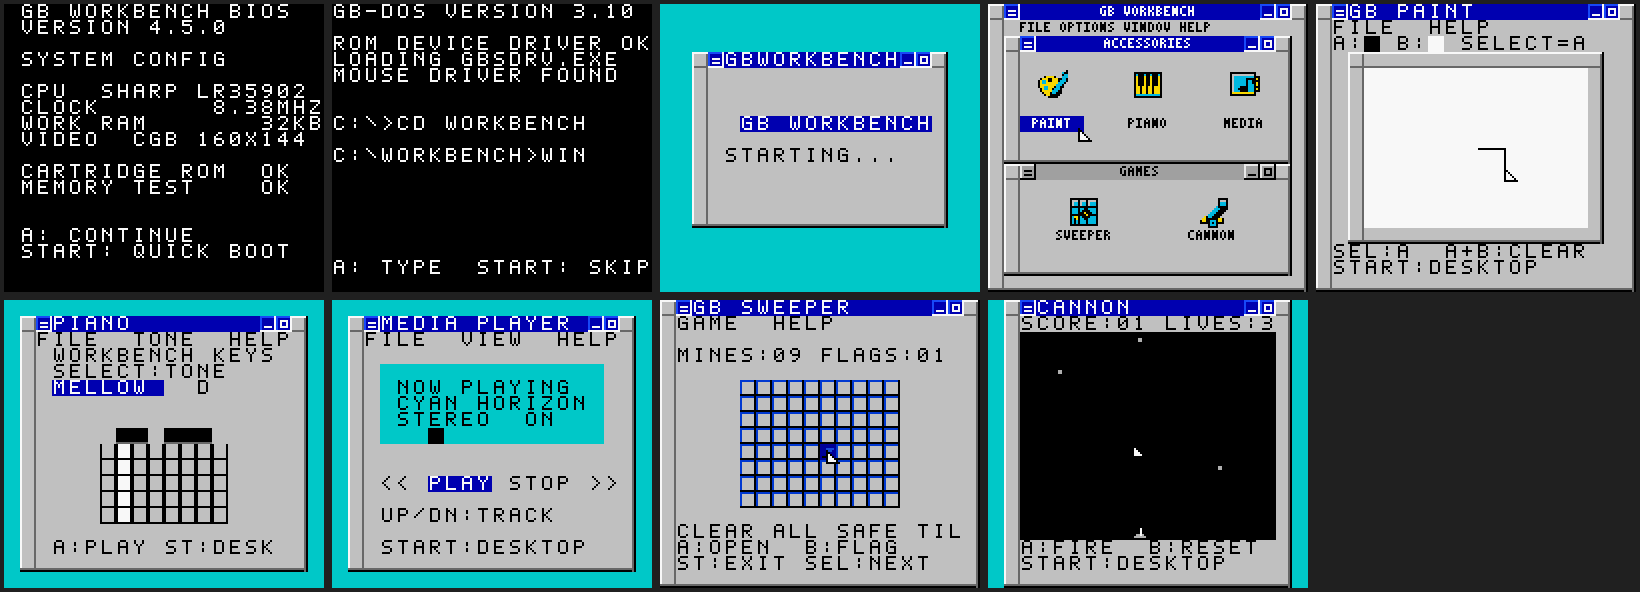
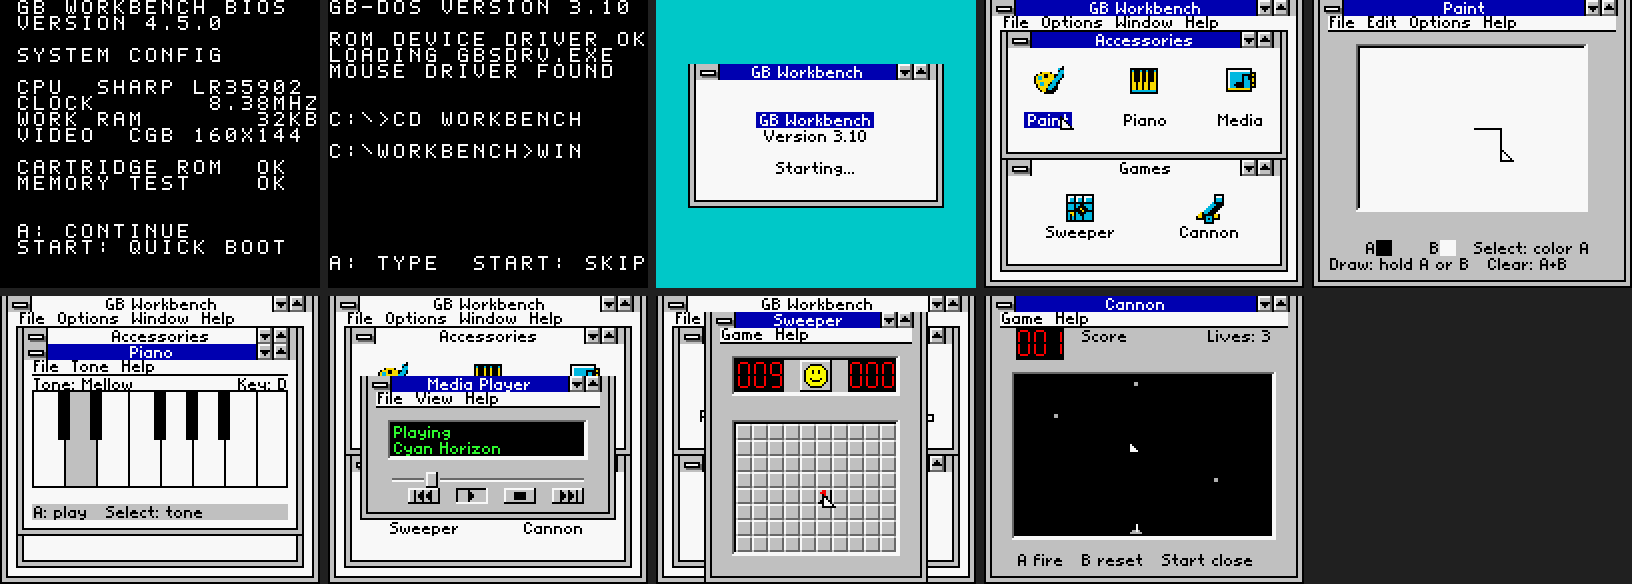
docs: add GBS Windows stock-take and refresh QA evidence
Record the 15-criterion comparison with GBS Windows that drove the
foundation pass, update the plan, QA report, design notes and README
montage, and start the repo run log.

diff --git a/docs/QA_REPORT.md b/docs/QA_REPORT.md
@@ -1,66 +1,64 @@
 # GB Win 3.1 verification report
 
-Date: 2026-08-04
+Date: 2026-09-25
 
-## Rebuild result
+## Build result
 
-The original snapshot at commit `5676292` was not reproducible from its source.
-The rebuild replaces the mismatched state, tile, palette, Paint, Sweeper, and
-build paths with a clean-room CGB-only implementation.
+The cartridge is `build/gb-win31.gbc`: 32 KiB, title `GB WORKBENCH`, CGB flag
+`0xC0`, cartridge type `0x1B` (MBC5 + RAM + battery), 8 KiB SRAM, and valid
+header/global checksums. Its SHA-256 is
[1 lines of base64/hex data omitted]
 
-The generated cartridge is `build/gb-win31.gbc`: 32 KiB, title
-`GB WORKBENCH`, CGB flag `0xC0`, and valid header/global checksums.
-Its SHA-256 is
[1 lines of base64/hex data omitted]
-the active 16 KiB ROM bank uses 14,700 bytes (90%), leaving 1,684 bytes.
-WRAM uses 2,825 of 4,096 bytes, leaving 1,271 bytes.
+| Region | Used | Free |
+| --- | --- | --- |
+| ROM bank 0 (fixed) | 7,588 B (46%) | 8,796 B |
+| ROM bank 1 (switchable) | 14,026 B (86%) | 2,358 B |
+| WRAM 0xC000-0xCFFF | 3,384 B (83%) | 712 B |
+
+Before this pass the whole program lived in bank 0 at 90% usage. Scenes and
+asset builders are now auto-banked; engine code (main loop, input, UI, text,
+audio, game models) stays in bank 0. Further code spills into new banks
+automatically.
+
+The previous build (`1d6fb920...`, recorded 2026-08-04) was reproduced
+byte-for-byte with GBDK 4.5.0 before any change.
 
 ## Automated checks
 
 - GBDK 4.5.0 compiles all ROM sources without diagnostics.
-- The host Sweeper suite covers initialization, all first-click positions,
-  deterministic mine placement, adjacency, flags, iterative flood fill,
-  bounds guards, loss, and win.
-- The same model suite passes AddressSanitizer and UndefinedBehaviorSanitizer;
-  leak detection is disabled because it is unavailable in the sandbox.
-- PyBoy 2.7.0 drives the complete boot-to-desktop journey and every app. The
-  interaction smoke covers empty-space clicks, pixel drawing, flag/reveal/reset,
-  Piano note dispatch, Media persistence, and Cannon score/reset in one
-  deterministic journey.
-- Nine deterministic 160 x 144 frames compare pixel-for-pixel with
-  `tests/golden/`.
-- Desktop detection is anchored to the complete 2 x 2 Paint icon rather than
-  the old full-tile title text, so the packed desktop font remains testable.
-- Cursor regression coverage verifies 8 x 8 sprite mode, transparent right and
-  bottom padding, and the `(152, 136)` bottom-right on-screen position.
-- `tools/verify_rom.py` checks cartridge size alignment, title, CGB-only flag,
-  and both checksums.
+- `make test`: the host Sweeper suite (initialisation, every first-click
+  position, deterministic mines, adjacency, flags, iterative flood fill,
+  bounds guards, loss, win) passes with `-Wall -Wextra -Werror`, and the
+  generated font table matches `assets/system_font.txt`.
+- `make verify`: size, title, CGB-only flag, MBC5 type, ROM/RAM size codes and
+  both checksums.
+- `make smoke-test` (PyBoy 2.7.0), synchronised on the exported `gbw_scene`
+  byte rather than on rendered text:
+  - boot quick-start to desktop, 8x8 pointer with transparent padding;
+  - empty desktop click changes nothing;
+  - Paint writes the expected bank-1 pixel bytes;
+  - Sweeper opens over the Program Manager, flags (LED 010 -> 009), reveals,
+    resets from the smiley, and closes from its system box;
+  - Piano selects D (pressed key art) and calls `audio_note`;
+  - Media plays, changes track, keeps playing after leaving, and stops;
+  - Cannon scores, resets score and lives, and exits;
+  - pointer reaches the (152, 136) bottom-right bound.
+- `make visual-test`: nine deterministic 160 x 144 frames compare
+  pixel-for-pixel with `tests/golden/`. Three consecutive captures were
+  identical.
 
 ## Manual review gates passed
 
-- BIOS, fake DOS, splash, Program Manager, and all five applications are
-  legible at native resolution.
-- The Program Manager matches the selected dual-group design: captions occupy
-  independent 32-pixel cells, active and inactive groups are distinct, the
-  triangular pointer sits below the selected caption, and the compact `W`
-  remains readable in `WINDOW` and `SWEEPER`.
-- Source and implementation were compared together at the same 160 x 144
-  viewport and at 4x nearest-neighbor zoom; `design-qa.md` records a pass.
-- Every application can be launched and closed without a blocking input loop.
-- Paint changes individual pixels and uploads only affected mutable tiles.
-- Sweeper never uses recursive reveal and its first revealed cell is safe.
-- Media music continues after returning to the desktop.
-- Whole-scene redraws disable the LCD instead of misusing the CGB background
-  priority bit, preventing exposed partial redraws.
+- Every frame was reviewed at 1x and 3x nearest-neighbour zoom against the
+  CC0 Windows 3.1 Program Manager reference and GBS Windows review photos.
+- Mixed-case text is legible at native resolution; no status line is clipped.
+- Windowed apps (Sweeper, Piano, Media) show the Program Manager behind them
+  with inactive title bars; maximised apps (Paint, Cannon) fill the screen.
+- Labels are drawn from a per-scene tile pool that is sized at scene entry;
+  repeated Cannon rounds reuse pre-allocated labels.
 
 ## Remaining release gates
 
-- Add a true overlapping/minimizing window manager and functional title-bar
-  controls.
-- Add app-specific pixel-art polish outside the completed Program Manager pass.
-- Add Sweeper difficulty selection and Paint tools/persistence.
-- Add printer support only after disconnected/cancel behavior is designed.
-- Run the documented SameBoy, mGBA, real GBC/GBA, and flashcart smoke matrix.
-
-These remaining gates are why the current build is called a functional first
-vertical slice, not finished commercial-reference parity.
+See the backlog in `docs/STOCKTAKE.md`: Solitaire, arrow pointer, Sweeper board
+sizes, Paint tools and saves, minimise/restore, Cannon art, printer, and the
+real-hardware matrix.

diff --git a/README.md b/README.md
@@ -1,21 +1,21 @@
 # GB Win 3.1
 
 A clean-room Game Boy Color desktop simulation inspired by classic Windows 3.1
-interaction and visual design. The ROM now provides a BIOS/DOS boot illusion,
-a pointer-driven Program Manager, Paint, Piano, Media Player, Sweeper, Cannon,
+interaction and visual design. The ROM provides a BIOS/DOS boot illusion, a
+pointer-driven Program Manager, Paint, Piano, Media Player, Sweeper, Cannon,
 sound, and deterministic visual tests.
 
-The desktop now follows a tiled Windows 3.1 Program Manager layout with a
-packed native font, independently spaced captions, active/inactive groups, and
-five original 16 x 16 icons.
+The interface uses a mixed-case proportional system font, white client areas,
+Windows 3.1 title-bar buttons, and application windows that open over an
+inactive Program Manager.
 
 ![Current native-resolution journey](docs/screens/current-montage.png)
 
 This is native GBC software, not a Windows emulator or a copy of the commercial
-GBS Windows ROM. The audit, target definition, phased roadmap, and remaining
-parity work are in [docs/REBUILD_PLAN.md](docs/REBUILD_PLAN.md); current test
-evidence is in [docs/QA_REPORT.md](docs/QA_REPORT.md), with the selected desktop
-comparison in [design-qa.md](design-qa.md).
+GBS Windows ROM. The comparison with GBS Windows is in
+[docs/STOCKTAKE.md](docs/STOCKTAKE.md); the phased roadmap is in
+[docs/REBUILD_PLAN.md](docs/REBUILD_PLAN.md); current test evidence is in
+[docs/QA_REPORT.md](docs/QA_REPORT.md).
 
 ## Build
 
@@ -26,15 +26,23 @@ then run:
 make GBDK_HOME=/path/to/gbdk
 ```
 
-The ROM is written to `build/gb-win31.gbc`.
+The ROM is written to `build/gb-win31.gbc`: a CGB-only MBC5 cartridge with
+8 KiB battery SRAM. Sources that declare `#pragma bank 255` are placed in
+switchable ROM banks automatically.
 
 ```sh
-make test
-make verify
+make test      # host unit tests and font-table freshness check
+make verify    # cartridge header, type and checksums
+make budget    # ROM/WRAM bank usage
 ```
 
-For exact-frame emulator regression tests, install `requirements-test.txt` and
-run `make smoke-test` and `make visual-test`.
+For exact-frame emulator regression tests, install `requirements-test.txt` in a
+virtual environment and run `make smoke-test` and `make visual-test` with
+`PYBOY_PYTHON` pointing at it. After an intentional visual change, review the
+frames and run `make golden montage`.
+
+The system font is edited as pixel art in `assets/system_font.txt`; run
+`make font` to regenerate `src/text_font.c`.
 
 ## Controls
 
@@ -42,10 +50,11 @@ run `make smoke-test` and `make visual-test`.
 - A: click, play, reveal, fire, or draw with Paint's primary shade.
 - B: flag in Sweeper, stop in Media, or draw with Paint's secondary shade.
 - Select: cycle desktop focus, Piano tone, Media controls, or Paint shade.
-- Start: skip boot or return to the desktop from any app.
+- Start: skip boot or close the current application.
 
-In Sweeper, click `GAME` with A for a new board.
+In Sweeper, click the smiley or `Game` for a new board, or the system box to
+close the window.
 
 The checked-in golden frames are exact 160 x 144 PyBoy output. Real-hardware
-validation, overlapping/minimizable windows, SRAM persistence, and optional
-printer support remain release-polish milestones.
+validation, minimisable windows, SRAM persistence, and optional printer support
+remain release-polish milestones.

diff --git a/docs/STOCKTAKE.md b/docs/STOCKTAKE.md
@@ -1,0 +1,70 @@
+# Stock-take: GB Workbench vs GBS Windows
+
+Date: 2026-09-25
+
+## Objective
+
+Measure how far the clean-room rebuild (`agent/rebuild-gbc-workbench`) is from
+the polished Windows 3.1 feel of RubenRetro's GBS Windows, then close the
+foundation-level gaps before starting Solitaire.
+
+## Method
+
+- Built the rebuild reproducibly with GBDK 4.5.0; its ROM hash matched
+  `docs/QA_REPORT.md` exactly and all smoke and golden-frame tests passed.
+- Compared the nine native 160 x 144 frames with published photos of the GBS
+  Windows cartridge (Retro Dodo review) and the CC0 Windows 3.1 Program
+  Manager reference in `docs/design/`.
+- GBS Windows is a closed commercial GB Studio product. It is a behavioural
+  reference only; no code, art or music from it is used here.
+
+## Reference: what GBS Windows ships
+
+Boot beeps and a DOS driver sequence; a Program Manager with Accessories and
+Games groups; Paint (tool/colour column, Game Boy Printer output); Piano;
+Media Player with four tracks that keep playing in the background; Sweeper
+with three board sizes; Cannon Defense. Applications open as windows over the
+Program Manager. There is no Solitaire.
+
+## Scorecard (15 visible 3.1-feel criteria)
+
+| # | Criterion | GBS Windows | Rebuild before | This foundation PR |
+|---|---|---|---|---|
+| 1 | Mixed-case proportional system font | Yes | No (8x8 capitals) | Yes |
+| 2 | White client areas and menu bar | Yes | No (grey) | Yes |
+| 3 | Menu bar separated from the client | Yes | No | Yes |
+| 4 | Centred titles with active/inactive styles | Yes | Partial | Yes |
+| 5 | Win 3.1 title buttons (system box, down/up arrows) | Yes | No | Yes |
+| 6 | Apps open as windows over the Program Manager | Yes | No | Yes (Sweeper, Piano, Media) |
+| 7 | Minesweeper chrome: LED counters, smiley, raised cells | Yes | No | Yes |
+| 8 | Piano with white and black keys | Yes | Crude grid | Yes |
+| 9 | Media Player display and transport buttons | Yes | Text only | Yes |
+| 10 | Paint colour/tool column | Yes | Partial | Partial (swatches) |
+| 11 | Arrow pointer with tail | Yes | Triangle | Triangle |
+| 12 | Minimisable/movable windows | Partial | No | No |
+| 13 | Sweeper board sizes | 3 | 1 | 1 |
+| 14 | Game Boy Printer / saves | Printer | No | Battery SRAM available, unused |
+| 15 | Cannon scenery art | Yes | Minimal | Minimal |
+
+Distance: the rebuild met 0 of 15 criteria fully (2 partial). After this PR
+it meets 9 fully and 1 partially. Functionally it already matched the GBS app
+line-up; the gap was almost entirely presentation.
+
+## Where the rebuild is already ahead
+
+- Reproducible build with header, checksum and cartridge-type verification.
+- Host unit tests, deterministic emulator smoke journeys and pixel-exact
+  golden frames.
+- MBC5 with automatic banking: ROM bank 0 dropped from 90% to 46% full, and
+  the cartridge now has room for Solitaire, saves and more apps.
+
+## Remaining backlog (after this PR)
+
+1. Solitaire (Klondike) - the planned improvement over GBS Windows.
+2. Arrow pointer with a tail (two stacked 8x8 sprites).
+3. Sweeper Beginner/Intermediate/Expert sizes via the Game menu.
+4. Paint tool column (pencil, line, fill) and SRAM-backed save.
+5. Real minimise/restore for application windows.
+6. Cannon scenery pass (city skyline, colour).
+7. Game Boy Printer output from Paint.
+8. Real-hardware and second-emulator smoke matrix.

diff --git a/docs/REBUILD_PLAN.md b/docs/REBUILD_PLAN.md
@@ -46,23 +46,30 @@ Captured evidence is kept under `docs/baseline/`.
    renders dirty regions, and advances audio.
 2. A small state router owns boot, DOS, Program Manager, and each application.
    State entry is explicit; there are no orphan `INIT` enum values.
-3. Bank 0 background tiles contain the compact font, window chrome, icons, and
-   application UI. Bank 1 is reserved for mutable Paint canvas tiles.
+3. VRAM bank 0 holds the fixed BIOS font, window chrome, icons, the pointer,
+   and persistent Program Manager text. VRAM bank 1 holds per-scene
+   application art (tiles 0-143, including the Paint canvas) and a per-scene
+   pool of proportional-font label tiles (144-255).
 4. Every palette and tile range is declared in one manifest with compile-time
-   bounds checks.
+   bounds checks. Palettes 0, 1, 2 and 4 are system palettes; scenes may
+   reload 3, 5, 6 and 7.
 5. The pointer is a sprite. Windows and apps use the background map plus CGB
    attributes, with redraws batched at state changes or limited to dirty tiles.
 6. Game logic that does not need hardware registers remains host-testable.
 
-## Implementation status - 2026-08-04
+## Implementation status - 2026-09-25
 
 | Slice | Status | Evidence | Remaining work |
 | --- | --- | --- | --- |
-| 0 | Complete | Reproducible GBDK 4.5.0 build, CGB-only header/checksum verifier, host tests | Add a tagged release workflow |
-| 1 | Complete design pass | BIOS, DOS, splash, dual-group Program Manager, packed desktop font, original icons, pointer, five launchable apps, native golden frames | Functional group minimize/maximize controls |
-| 2 | Playable first pass | Safe deterministic Sweeper model and true-pixel persistent Paint canvas | Difficulty chooser, Paint save/load, extra palettes/tools |
-| 3 | Playable first pass | Piano tones, four original Media tracks with background playback, complete Cannon score/lives loop | Tempo/rhythm controls and a real minimize/overlap window manager |
-| 4 | Not started | Roadmap below | Printer, SRAM, SameBoy/mGBA and physical-hardware matrix |
+| 0 | Complete | Reproducible GBDK 4.5.0 build; MBC5 + 8 KiB SRAM with auto-banking; header, type and checksum verifier; host tests | Add a tagged release workflow |
+| 1 | Complete, 3.1 chrome pass | Mixed-case proportional font, white clients, menu rules, Win 3.1 title buttons, apps drawn over an inactive Program Manager, golden frames | Arrow pointer with tail; functional minimise/maximise |
+| 2 | Playable, restyled | Sweeper with LED counters, smiley and raised cells; true-pixel Paint with sunken canvas and swatches | Board sizes, Paint tools and SRAM save |
+| 3 | Playable, restyled | Piano keyboard art, Media LCD and transport buttons, Cannon LED score | Tempo/rhythm controls, Cannon scenery |
+| 3.5 | Next | Solitaire (Klondike), the improvement over GBS Windows | Model, host tests, card art, pointer play, win cascade |
+| 4 | Not started | Roadmap below | Printer, SRAM persistence, SameBoy/mGBA and physical-hardware matrix |
+
+The GBS Windows comparison that set these priorities is in
+`docs/STOCKTAKE.md`.
 
 The nine golden screens lock this implementation against accidental visual
 regression. They are not a claim that clean-room reference parity is finished.

diff --git a/docs/design/DESKTOP_DESIGN.md b/docs/design/DESKTOP_DESIGN.md
@@ -32,7 +32,25 @@ Accessory cell centers are 32, 80, and 128 pixels. Game cell centers are 48
 and 112 pixels. Each app caption is rendered into an independent 32-pixel cell,
 so no label can touch a neighbor or replace a frame tile.
 
-## Visual rules
+## Revision 2 - Windows 3.1 chrome pass (2026-09-25)
+
+The layout above is unchanged; the surface treatment moved closer to Windows
+3.1 after the GBS Windows stock-take (`docs/STOCKTAKE.md`):
+
+- All window text uses the original mixed-case proportional system font
+  (`assets/system_font.txt`, cap height 6, x-height 4, 1-pixel descender).
+- Client areas and menu bars are white; menus end in a black rule.
+- Window frames are 4 pixels thick inside their 8-pixel tiles, leaving white
+  padding; windows with grey clients use face-coloured frame variants.
+- Title bars centre their text. Active titles are white on navy; inactive
+  titles are black on white. Title buttons are the system-menu bar and the
+  down/up arrow buttons.
+- Captions are rendered into per-icon tile strips centred on the icon. The
+  selected caption gets a tight navy box instead of a full-cell fill.
+- Application windows (Sweeper, Piano, Media) are drawn over the Program
+  Manager, which switches to inactive titles behind them.
+
+## Visual rules (revision 1)
 
 - Use a packed 3 x 5 glyph on a 4-pixel advance for desktop text only.
 - Keep the existing application font unchanged.

diff --git a/docs/run-log.md b/docs/run-log.md
@@ -1,0 +1,4 @@
+# Run Log
+
+2026-09-25 15:00|Fast-forward merged origin/agent/rebuild-gbc-workbench (3 commits) into claude/codebase-understanding-027b73|Bring worktree up to date with user's pushed rebuild for codebase review|Clean fast-forward, no conflicts; working tree now matches rebuild branch tip (1345fee); `make test` passes
+2026-09-25 15:54|Foundation 3.1 pass: MBC5+autobank, proportional system font, white-client chrome, apps over Program Manager, Sweeper LED/smiley, scene-synced emulator tests, stock-take doc|Close GBS Windows 3.1-feel gaps without regressions|Build clean; verify/test/smoke/visual all pass; bank0 90%->46%; 9 of 15 stock-take criteria met (was 0)

diff --git a/design-qa.md b/design-qa.md
@@ -1,5 +1,15 @@
 # Desktop option 2 design QA
 
+## Revision 2 (2026-09-25)
+
+The Windows 3.1 chrome pass (see `docs/design/DESKTOP_DESIGN.md`, revision 2)
+replaces the 3 x 5 capitals with the mixed-case system font, turns client
+areas white, and adds menu rules and 3.1 title buttons. The layout, icon art
+and selection behaviour below are unchanged. The current rendered desktop is
+`tests/golden/desktop.png`; it was reviewed at 1x and 3x nearest-neighbour
+against the CC0 Program Manager reference with no P0-P2 findings. The findings
+below describe revision 1.
+
 ## Comparison target
 
 - Source visual truth: `docs/design/desktop-option-2-selected-160x144.png`
